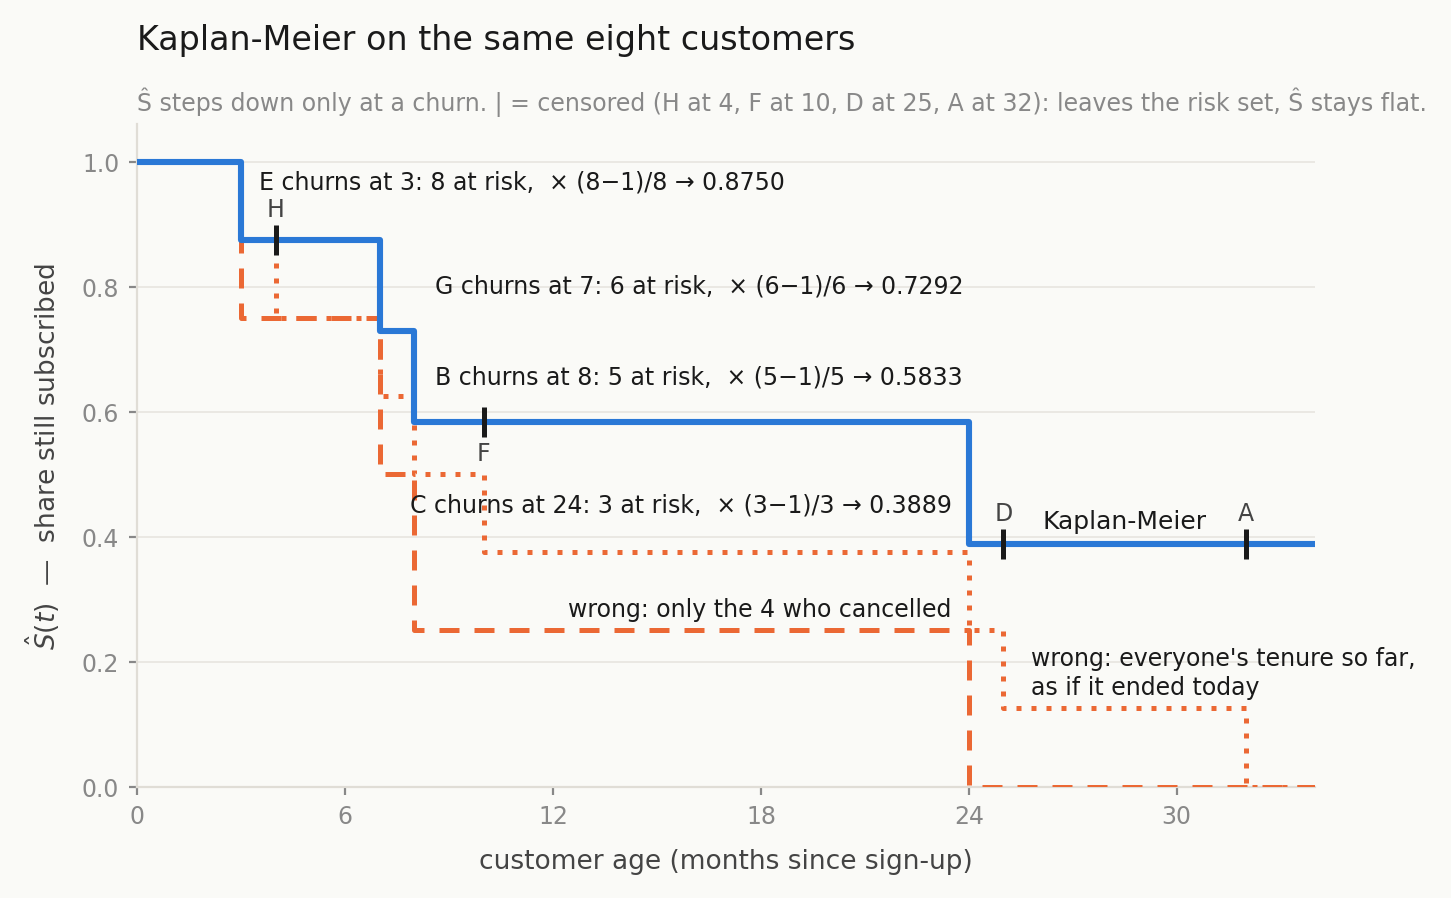
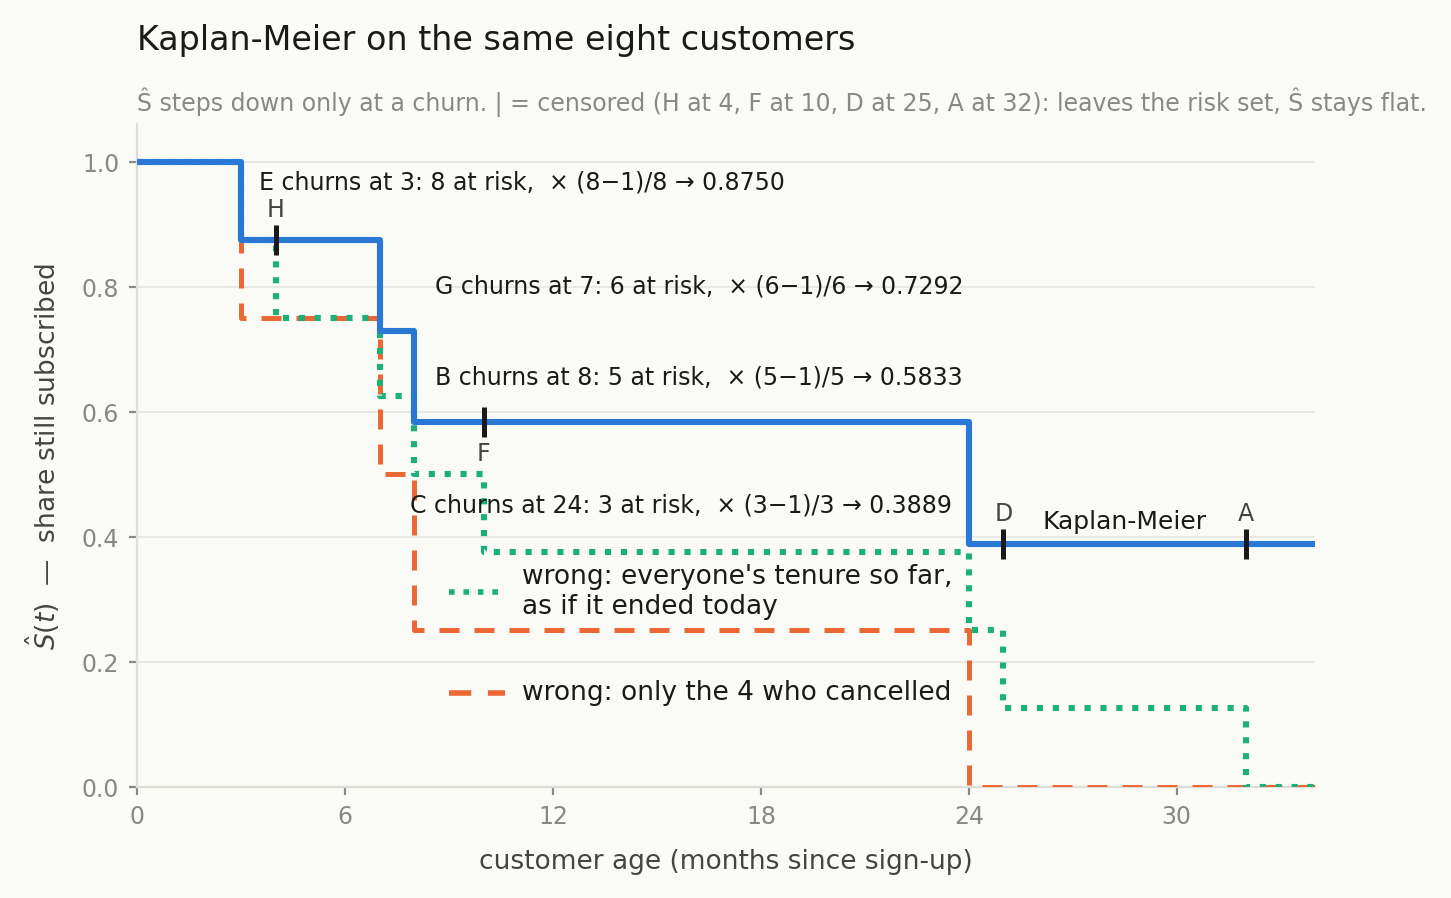
deploy: auto-update from shleeneu/mktg-analytics-course-backup 2026-10-06 21:05 UTC

diff --git a/lecture_notes/lecture_04_survival_analysis.md b/lecture_notes/lecture_04_survival_analysis.md
@@ -104,7 +104,7 @@ A customer who joined 18 months ago and is still active is **censored**: you kno
 
 ![Two panels showing the same eight illustrative customers A to H. Panel (a), calendar time from Jan 2024 to Oct 2026: each customer is a line from their join date; B, C, E and G end in a cross (churned); A, D and H run to a dashed analysis-date line at Oct 2026 and end in an open circle (still active, censored); F ends in an open circle in Mar 2026, lost to follow-up. Panel (b): the same lines slid back to start at 0 on a customer-age axis, months since sign-up: churned at ages 8, 24, 3 and 7; censored at ages 32, 25, 10 and 4.](figures/lecture_04_calendar_vs_age.png)
 
-![Kaplan-Meier step function for the same eight customers on a customer-age axis: 1.0 until age 3, then 0.875 (8 at risk), 0.7292 at age 7 (6 at risk), 0.5833 at age 8 (5 at risk), 0.3889 at age 24 (3 at risk), with tick marks where H, F, D and A are censored at ages 4, 10, 25 and 32. Two orange lines show two wrong ways. Dashed, using only the four who cancelled: 0.75, 0.50, 0.25 and 0 by age 24. Dotted, treating everyone's tenure so far as if it ended today: a step down at every one of the eight exits, 0.875 to 0 by age 32.](figures/lecture_04_km_eight_customers.png)
+![Kaplan-Meier step function for the same eight customers on a customer-age axis: 1.0 until age 3, then 0.875 (8 at risk), 0.7292 at age 7 (6 at risk), 0.5833 at age 8 (5 at risk), 0.3889 at age 24 (3 at risk), with tick marks where H, F, D and A are censored at ages 4, 10, 25 and 32. Two more lines show two wrong ways. Orange dashed, using only the four who cancelled: 0.75, 0.50, 0.25 and 0 by age 24. Green dotted, treating everyone's tenure so far as if it ended today: a step down at every one of the eight exits, 0.875 to 0 by age 32.](figures/lecture_04_km_eight_customers.png)
 
 ---
 
